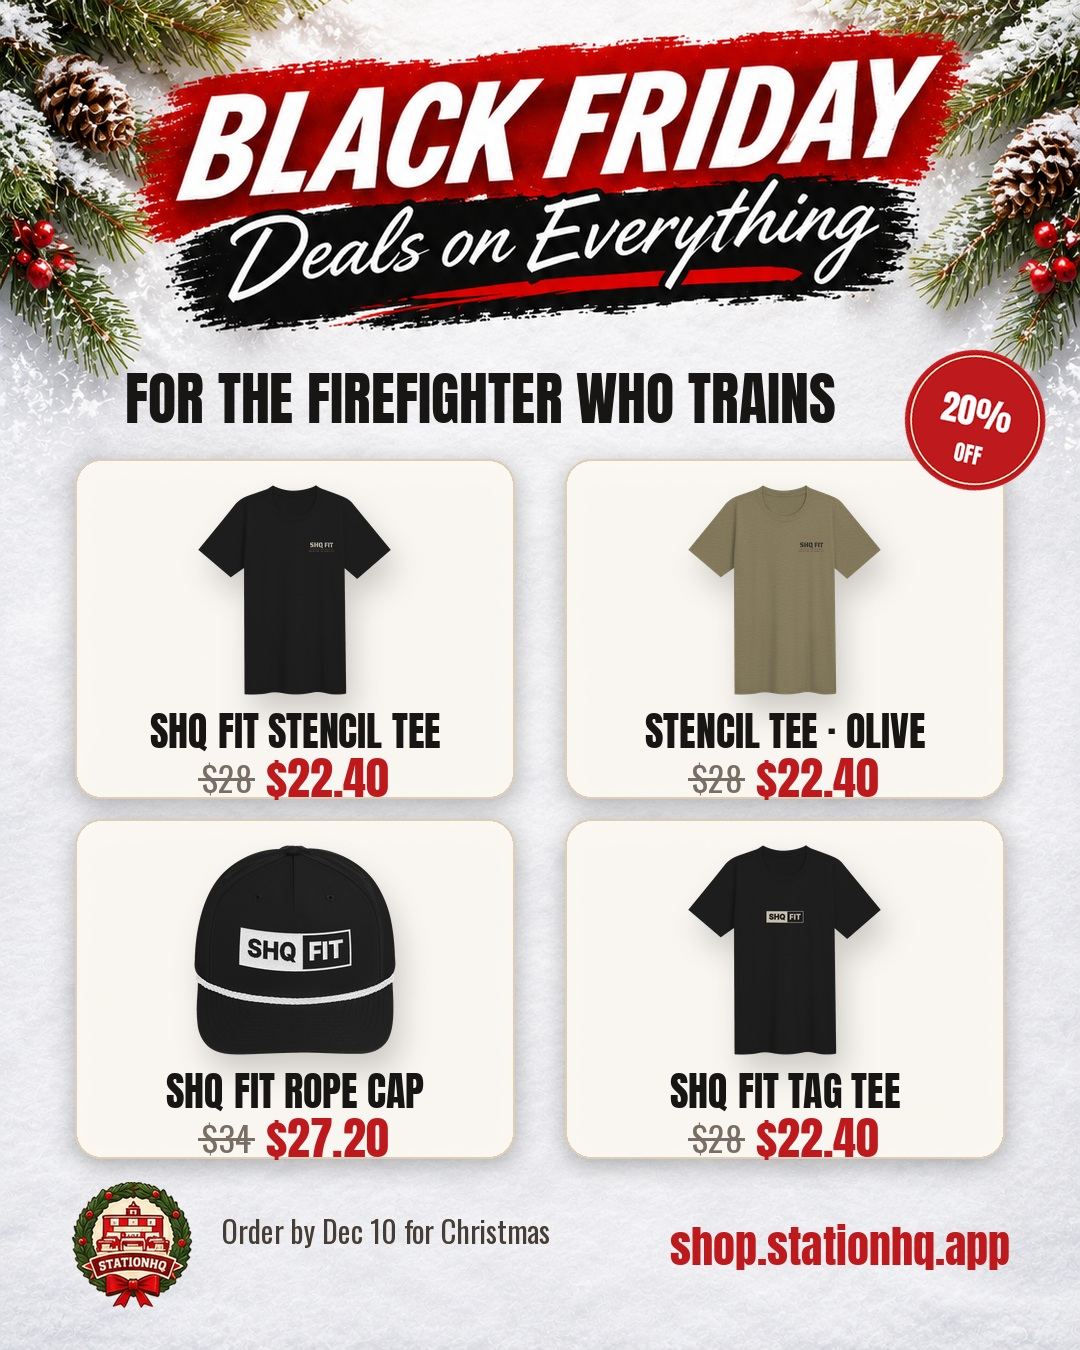
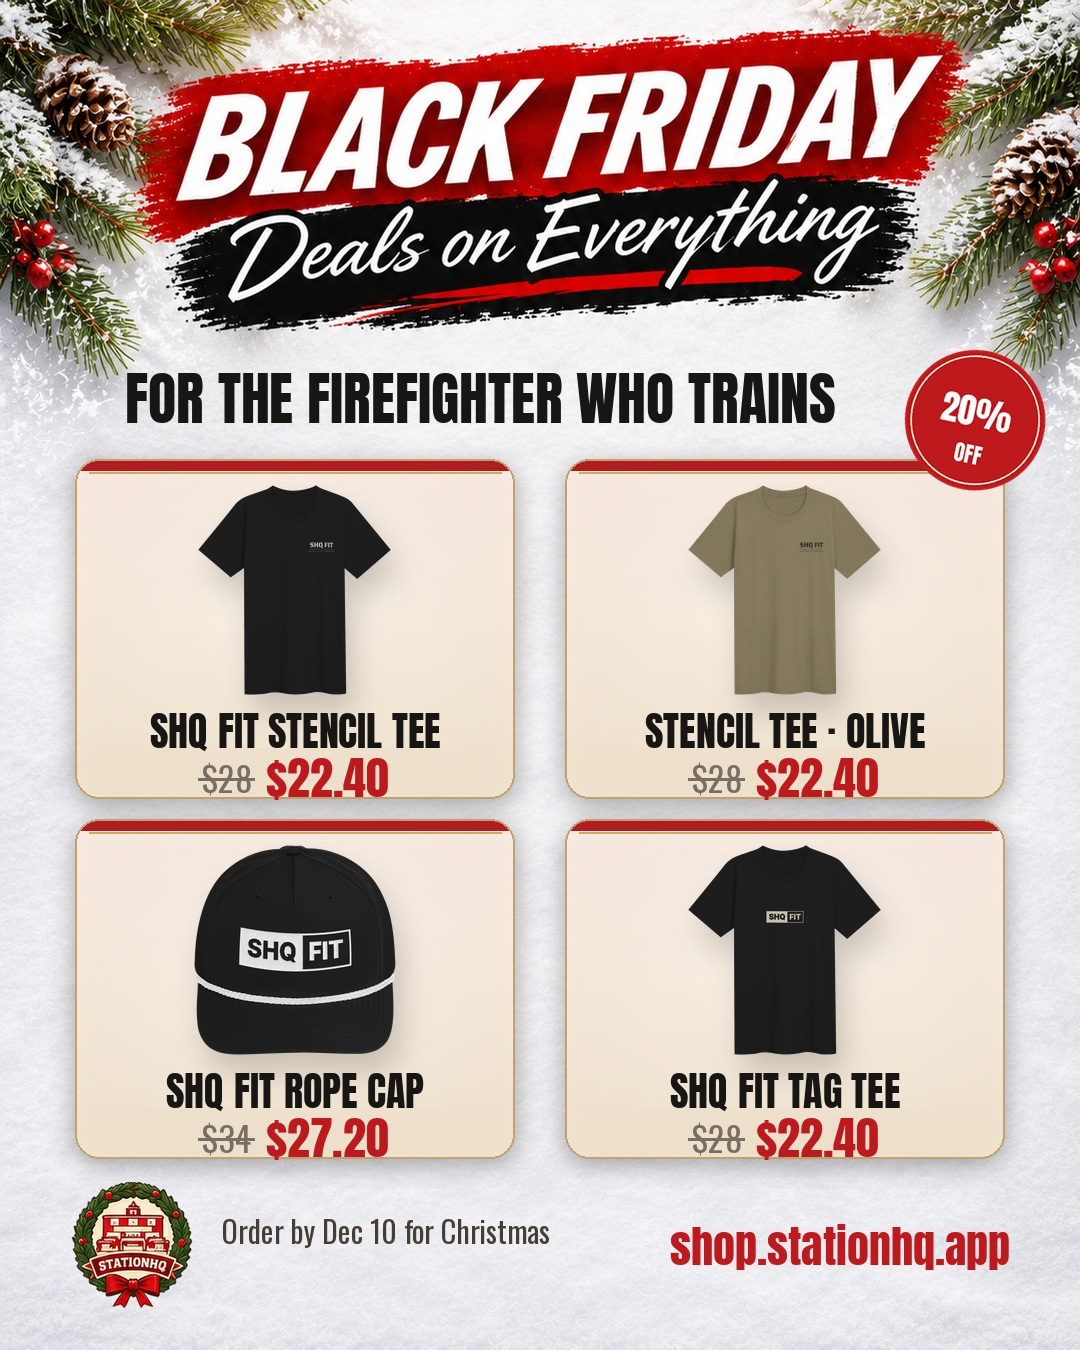
Black Friday ads: warmer festive cards
Claude-Session: https://claude.ai/code/session_019hAQwsAPzfriaFpaAttWio

diff --git a/content/blackfriday/mixed.py b/content/blackfriday/mixed.py
@@ -10,13 +10,34 @@ def fit_headline(b, text, y, dark=False, maxw=760, size=78):
 
 CARDS = True
 def card(b, x0, y0, x1, y1, dark=False):
-    sh = Image.new('RGBA', (x1 - x0 + 60, y1 - y0 + 60), (0, 0, 0, 0))
-    ImageDraw.Draw(sh).rounded_rectangle([30, 36, x1 - x0 + 30, y1 - y0 + 36], 26, fill=(0, 0, 0, 70))
-    sh = sh.filter(ImageFilter.GaussianBlur(12))
-    b.alpha_composite(sh, (x0 - 30, y0 - 30))
-    l = Image.new('RGBA', (x1 - x0, y1 - y0), (0, 0, 0, 0))
-    ImageDraw.Draw(l).rounded_rectangle([0, 0, x1 - x0 - 1, y1 - y0 - 1], 26, fill=(252, 249, 243, 246), outline=(222, 206, 184, 255), width=2)
-    b.alpha_composite(l, (x0, y0))
+    w, h = x1 - x0, y1 - y0
+    sh = Image.new('RGBA', (w + 60, h + 60), (0, 0, 0, 0))
+    ImageDraw.Draw(sh).rounded_rectangle([30, 36, w + 30, h + 36], 24, fill=(0, 0, 0, 80))
+    b.alpha_composite(sh.filter(ImageFilter.GaussianBlur(12)), (x0 - 30, y0 - 30))
+    # warm vertical gradient: soft blush top -> warm cream bottom, slightly see-through
+    top, bot = (252, 236, 226), (244, 230, 206)
+    grad = Image.new('RGBA', (w, h))
+    gd = ImageDraw.Draw(grad)
+    for yy in range(h):
+        t = yy / max(1, h - 1)
+        gd.line([(0, yy), (w, yy)], fill=tuple(int(top[i] + (bot[i] - top[i]) * t) for i in range(3)) + (232,))
+    # soft light behind the product
+    glow = Image.radial_gradient('L').resize((int(w * 1.1), int(h * .9))).point(lambda v: max(0, 120 - v // 2))
+    gl = Image.new('RGBA', glow.size, (255, 252, 246, 0)); gl.putalpha(glow)
+    grad.alpha_composite(gl, (int(-w * .05), int(-h * .05)))
+    mask = Image.new('L', (w, h), 0)
+    ImageDraw.Draw(mask).rounded_rectangle([0, 0, w - 1, h - 1], 24, fill=255)
+    card_img = Image.new('RGBA', (w, h), (0, 0, 0, 0)); card_img.paste(grad, (0, 0), mask)
+    d = ImageDraw.Draw(card_img)
+    # red top band + gold rule
+    band = Image.new('RGBA', (w, h), (0, 0, 0, 0)); bd = ImageDraw.Draw(band)
+    bd.rounded_rectangle([0, 0, w - 1, 40], 24, fill=(176, 28, 32, 255))
+    band_mask = Image.new('L', (w, h), 0); ImageDraw.Draw(band_mask).rectangle([0, 0, w, 11], fill=255)
+    band_mask = Image.composite(band_mask, Image.new('L', (w, h), 0), mask)
+    card_img.paste(band, (0, 0), band_mask)
+    d.line([(14, 13), (w - 14, 13)], fill=(206, 168, 92, 255), width=2)
+    d.rounded_rectangle([0, 0, w - 1, h - 1], 24, outline=(196, 160, 110, 255), width=2)
+    b.alpha_composite(card_img, (x0, y0))
 
 def item(b, it, cx, cy, box, dark=False, cw=None):
     name, lab, price, note = it
